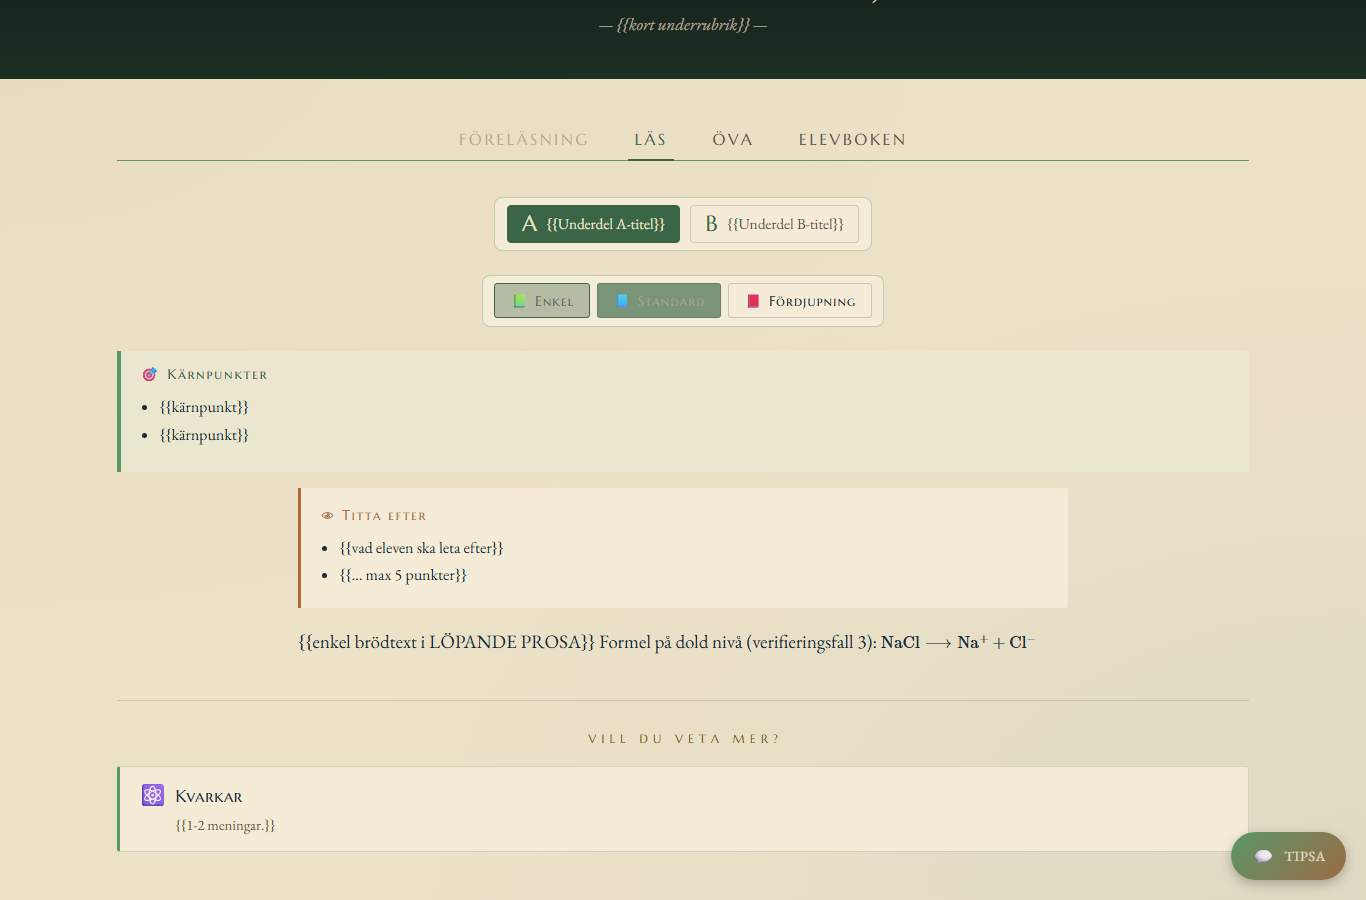
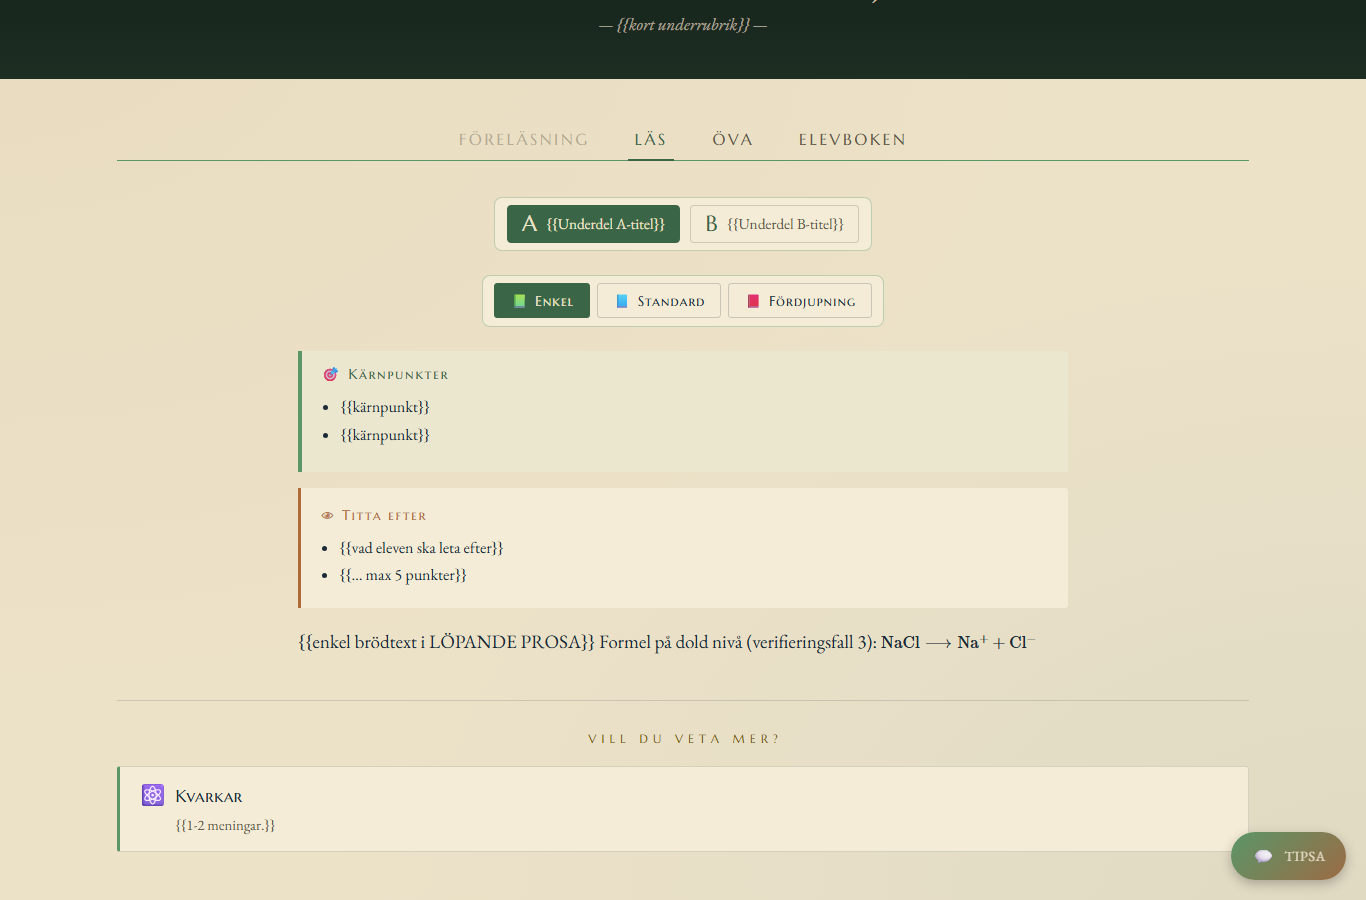
kemi.css: kärnpunkter på läsbredd (kompensation för .karnpunkt-stavfel)
geografi.css:s läsbreddsregel listar .karnpunkt (singular) och träffar aldrig
.karnpunkter – blocket gick i full sidbredd. Överskrivning i kemi.css tills
plattformsposten (🔵) är åtgärdad. Enkel-skärmbilden uppdaterad.

Changed region(s): [[0.3382, 0.3111, 0.5534, 0.3733], [0.2152, 0.4044, 0.3075, 0.4978], [0.0922, 0.4044, 0.1845, 0.4978]]

diff --git a/css/kemi.css b/css/kemi.css
@@ -212,6 +212,17 @@
 .bildguide { border-left-color: var(--terra); }
 .bildguide-rubrik { color: var(--terra); }
 
+/* KOMPENSATION för stavfel i geografi.css: läsbreddsregeln listar
+   `.niva-innehall.brodtext > .karnpunkt` (singular) – klassen heter
+   .karnpunkter, så blocket får aldrig --las-bredd utan går i full sidbredd
+   (1180 px) medan bildguide och stycken ligger på 770 px. 🔵-loggat
+   2026-09-12. Ta bort denna regel när plattformsposten är åtgärdad. */
+.niva-innehall.brodtext > .karnpunkter {
+  max-width: var(--las-bredd);
+  margin-left: auto;
+  margin-right: auto;
+}
+
 /* Djupdykningskort */
 .fordj-kort { border-left-color: var(--accent); }
 .fordj-kort-ikon { color: var(--accent-text); }
